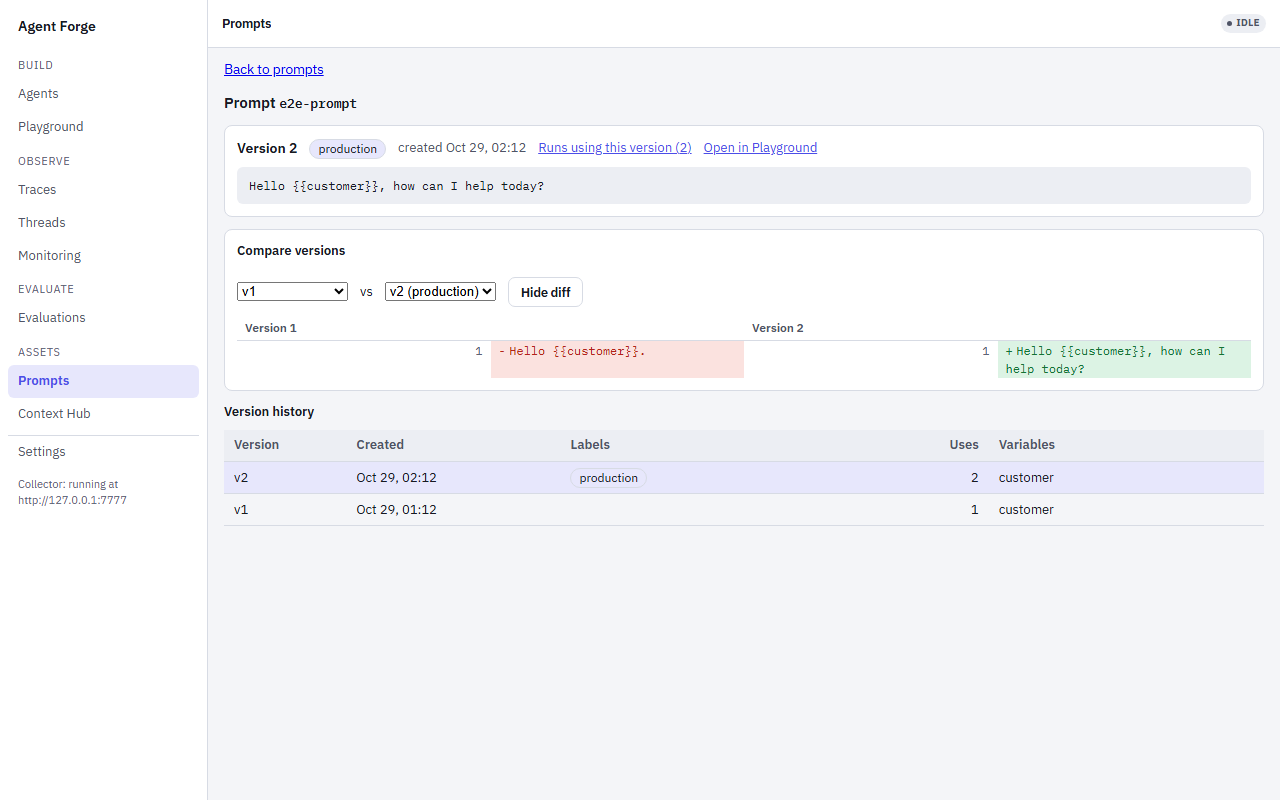
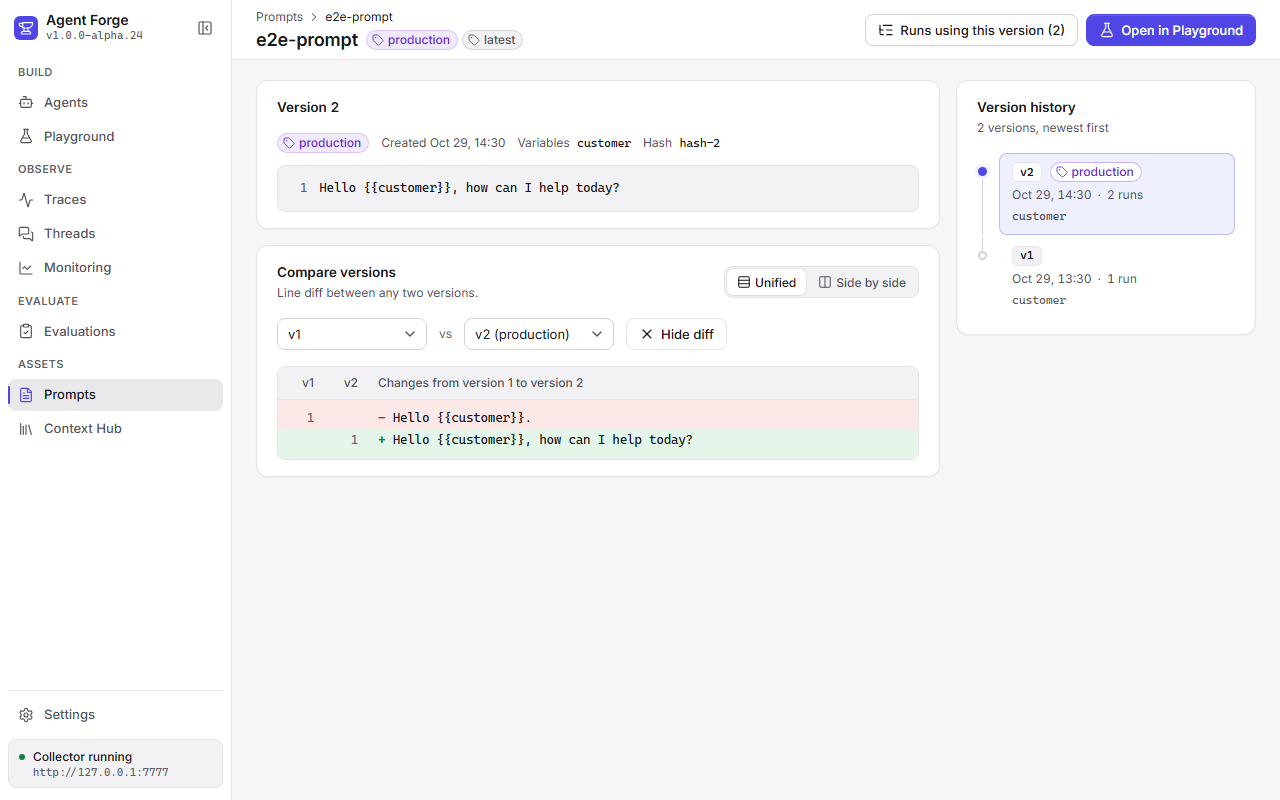
docs(studio): redesign screenshots (light + 4 dark), Agent Forge doc wording, CHANGELOG entry
docShots writes into docs/images without the x- review shots, and a dark run
there writes only studio-{agents,traces,trace,monitoring}-dark.png; with
LOUSHO_DOC_SHOTS_OUT set every shot keeps its name. docs/agent-forge.md
shows one dark example beside Traces and describes Refresh/Live, the
Tree|Waterfall switch, the trace header actions and the dark docs command.

diff --git a/apps/agent-forge/e2e/docShots.spec.ts b/apps/agent-forge/e2e/docShots.spec.ts
@@ -26,6 +26,9 @@ import { SEED_ERROR, SEED_NEWEST_FAILURE, seedObserve } from './fixtures/seedObs
  *                                       or relative to the process cwd)
  *   LOUSHO_DOC_SHOTS_SCHEME=light|dark  the colour scheme to shoot (default light)
  *
+ * Into docs/images (no OUT) the `x-` review shots are skipped, and a dark run
+ * writes only `studio-{agents,traces,trace,monitoring}-dark.png`.
+ *
  * The small fixtures below fill the screens the seed leaves thin: a fleet with
  * mixed health, a day of chart buckets for it, and a few threads.
  */
@@ -279,11 +282,32 @@ async function open(page: Page, hash: string) {
   await expect(page.locator('.app')).toBeVisible();
 }
 
+/** The docs set shot in dark too, written as `studio-<screen>-dark.png`. */
+const DARK_DOCS = new Set(['agents', 'traces', 'trace', 'monitoring']);
+
+/**
+ * Where `file` goes, or null to skip it. With LOUSHO_DOC_SHOTS_OUT set every
+ * shot is written as named (reviewers rely on the `x-` ones). Into docs/images
+ * the `x-` review shots never go, and a dark run writes only the DARK_DOCS set.
+ */
+function shotPath(file: string): string | null {
+  if (process.env.LOUSHO_DOC_SHOTS_OUT) return path.join(OUT, file);
+  if (/^(studio-)?x-/.test(file)) return null;
+  if (shotScheme() === 'light') return path.join(OUT, file);
+  const screen = /^studio-(.+)\.png$/.exec(file)?.[1];
+  return screen && DARK_DOCS.has(screen) ? path.join(OUT, `studio-${screen}-dark.png`) : null;
+}
+
+async function snap(page: Page, file: string, options: { fullPage?: boolean } = {}) {
+  const target = shotPath(file);
+  if (target) await page.screenshot({ ...options, path: target });
+}
+
 async function shoot(page: Page, screen: string) {
   // Let toasts, focus rings and chart transitions settle.
   await page.mouse.move(0, 0);
   await page.waitForTimeout(300);
-  await page.screenshot({ path: path.join(OUT, `studio-${screen}.png`) });
+  await snap(page, `studio-${screen}.png`);
 }
 
 /** Data rows only: a first load shows skeleton rows (`.skeleton-row`) until the rows arrive. */
@@ -373,7 +397,7 @@ for (const width of [860, 375]) {
     await monitoringReady(page);
     await page.mouse.move(0, 0);
     await page.waitForTimeout(300);
-    await page.screenshot({ path: path.join(OUT, `studio-x-monitoring-${width}.png`) });
+    await snap(page, `studio-x-monitoring-${width}.png`);
   });
 }
 
@@ -546,7 +570,7 @@ test('command palette: open over Traces', async ({ page }) => {
   await expect(input).toBeFocused();
   await input.fill('go');
   await page.waitForTimeout(150);
-  await page.screenshot({ path: path.join(OUT, 'studio-command-palette.png') });
+  await snap(page, 'studio-command-palette.png');
 });
 
 // Review-only shots of the shell (`x-` names: not in the docs set).
@@ -556,7 +580,7 @@ test('x: collapsed rail on Traces', async ({ page }) => {
   await page.getByRole('button', { name: 'Collapse navigation' }).click();
   await page.waitForTimeout(250);
   await page.mouse.move(0, 0);
-  await page.screenshot({ path: path.join(OUT, 'x-rail-collapsed.png') });
+  await snap(page, 'x-rail-collapsed.png');
 });
 
 test('x: 375 wide, Traces with the nav drawer closed and open', async ({ page }) => {
@@ -564,10 +588,10 @@ test('x: 375 wide, Traces with the nav drawer closed and open', async ({ page })
   await open(page, '/traces');
   await expect(rows(page).first()).toBeVisible();
   await page.waitForTimeout(300);
-  await page.screenshot({ path: path.join(OUT, 'x-narrow-traces.png') });
+  await snap(page, 'x-narrow-traces.png');
   await page.getByRole('button', { name: 'Navigation', exact: true }).click();
   await page.waitForTimeout(300);
-  await page.screenshot({ path: path.join(OUT, 'x-narrow-drawer-open.png') });
+  await snap(page, 'x-narrow-drawer-open.png');
 });
 
 /*
@@ -714,7 +738,7 @@ test('x-kit: filter bar with a facet and the custom range open', async ({ page }
   await main.locator('.facet-btn').first().click();
   await expect(main.locator('.facet-pop')).toBeVisible();
   await page.waitForTimeout(300);
-  await page.screenshot({ path: path.join(OUT, 'studio-x-kit-filters.png') });
+  await snap(page, 'studio-x-kit-filters.png');
 });
 
 // --- Overlay/message/chart kit states (x- shots, D3b) -------------------------
@@ -800,7 +824,7 @@ test('x-kit: chart tooltip, crosshair and legend with a series toggled off', asy
   await page.mouse.move(box.x + box.width * 0.62, box.y + box.height / 2);
   await expect(runs.locator('.tsc-crosshair')).toHaveCount(1); // a zero-width line never counts as visible
   await page.waitForTimeout(200);
-  await page.screenshot({ path: path.join(OUT, 'studio-x-kit-chart-hover.png') });
+  await snap(page, 'studio-x-kit-chart-hover.png');
 });
 
 test('x-kit: toasts (info and error)', async ({ page }) => {
@@ -822,7 +846,7 @@ test('x-kit: toasts (info and error)', async ({ page }) => {
   await expect(page.getByRole('alert').filter({ hasText: 'Could not disable' })).toBeVisible();
   await page.mouse.move(0, 0);
   await page.waitForTimeout(200);
-  await page.screenshot({ path: path.join(OUT, 'studio-x-kit-toasts.png') });
+  await snap(page, 'studio-x-kit-toasts.png');
 });
 
 test('x-kit: command palette sections, scrolled to the last group', async ({ page }) => {
@@ -834,7 +858,7 @@ test('x-kit: command palette sections, scrolled to the last group', async ({ pag
   // ArrowUp from the first option wraps to the last one (Toggle theme), scrolling the list to the end.
   await page.keyboard.press('ArrowUp');
   await page.waitForTimeout(250);
-  await page.screenshot({ path: path.join(OUT, 'studio-x-kit-palette-sections.png') });
+  await snap(page, 'studio-x-kit-palette-sections.png');
 });
 
 /*
@@ -1119,7 +1143,7 @@ test('x-traces: detail at 375 wide', async ({ page }) => {
   await open(page, `/traces/${SEED_NEWEST_FAILURE.trace_id}`);
   await expect(page.getByRole('main').getByRole('alert')).toContainText(SEED_ERROR);
   await shoot(page, 'x-trace-narrow');
-  await page.screenshot({ path: path.join(OUT, 'studio-x-trace-narrow-full.png'), fullPage: true });
+  await snap(page, 'studio-x-trace-narrow-full.png', { fullPage: true });
 });
 
 test("x-traces: the Agents drawer's Trace tab (narrow host)", async ({ page }) => {
@@ -1253,7 +1277,7 @@ test('x-threads: detail with long turns (collapsed, expanded, errored)', async (
   await shoot(page, 'x-thread-expanded');
   await turnsOf(page).nth(2).scrollIntoViewIfNeeded();
   await shoot(page, 'x-thread-error');
-  await page.screenshot({ path: path.join(OUT, 'studio-x-thread-long-full.png'), fullPage: true });
+  await snap(page, 'studio-x-thread-long-full.png', { fullPage: true });
 });
 
 test('x-threads: detail at 375 wide', async ({ page }) => {
@@ -1262,7 +1286,7 @@ test('x-threads: detail at 375 wide', async ({ page }) => {
   await open(page, `/threads/${LONG_THREAD}`);
   await expect(turnsOf(page)).toHaveCount(THREAD_TURNS.length);
   await shoot(page, 'x-thread-narrow');
-  await page.screenshot({ path: path.join(OUT, 'studio-x-thread-narrow-full.png'), fullPage: true });
+  await snap(page, 'studio-x-thread-narrow-full.png', { fullPage: true });
 });
 
 // --- Evaluators and annotation queues (x- shots, P7) -------------------------

diff --git a/docs/agent-forge.md b/docs/agent-forge.md
@@ -16,7 +16,7 @@ This doc covers: installation, the `lousho studio` quickstart, the
 authoring, time travel (replaying a run from a past step), the playground
 endpoint, and how settings/secrets/deploy wiring works.
 
-![The Agents screen: nav, canvas, inspector and the bottom drawer](./images/studio-agents.png)
+![The Agents screen: nav, agent rail, the fitted canvas with the Inspector folded, and the bottom drawer](./images/studio-agents.png)
 
 ## Installation
 
@@ -299,26 +299,34 @@ says so and keeps an empty editor, and runs still work. Runs go through the
 
 ![The Traces list](./images/studio-traces.png)
 
+![The Traces list in the dark theme](./images/studio-traces-dark.png)
+
+The same list in the dark theme (Settings > Appearance, or **Toggle theme** in the command palette).
+
 `#/traces` lists the daemon's runs, newest first: status, name, agent,
 input and output previews, error message, model, start, duration, tokens
 and cost (narrow windows hide the less important columns). Filter with the
 search box (name, input or output), the **Agent**, **Status**, **Model** and
 **Project** facets, and a time range (15m, 1h, 24h, 7d, 30d or Custom;
 default the last 24 h). Click **Duration**, **Tokens** or **Cost** to sort
-by it. 50 rows a page. A `prompt` filter (set by the Prompts screen's
+by it. 50 rows a page. The page header's **Refresh** re-fetches the list
+now, and **Live** (a toggle) refreshes it every 5 seconds until you switch
+it off or the daemon goes down. A `prompt` filter (set by the Prompts screen's
 "Runs using this version" link) shows as a removable chip.
 
 ### Trace
 
 `#/traces/<trace id>` is one run. The header has its name, status, agent
 (a link to the agent's traces), model, start, duration, tokens, cost and
-session (a link to its thread), plus **Copy link**, **Add to dataset** and
-**Add to queue**.
+session (a link to its thread), plus **Copy link**, **Add to dataset**,
+**Add to queue** and, when the run has a model call, **Open in Playground**.
+**All traces** in the page header goes back to the list.
 
 ![A failed run: the error banner on top of the inspector](./images/studio-trace.png)
 
 Below it is the trace viewer the builder's Trace tab and the queue review
-also use: the steps as a **Tree** or a **Waterfall**, and an inspector for
+also use: the steps as a **Tree** or a **Waterfall** (a two-way switch above
+the steps), and an inspector for
 the selected step (a failed step is selected by default, else the root).
 The selected step is `?obs=` in the URL. The inspector shows, in order:
 
@@ -852,12 +860,23 @@ LOUSHO_DOC_SHOTS=1 npx playwright test -c apps/agent-forge/playwright.config.ts 
 ```
 
 It writes `docs/images/studio-<screen>.png` (1280x800, light theme) from the
-same fake daemon. The images are not part of the npm package.
+same fake daemon. The images are not part of the npm package. The dark
+examples (`studio-{agents,traces,trace,monitoring}-dark.png`) come from the
+same command with the dark scheme:
+
+```bash
+LOUSHO_DOC_SHOTS=1 LOUSHO_DOC_SHOTS_SCHEME=dark npx playwright test -c apps/agent-forge/playwright.config.ts docShots
+```
+
+Into `docs/images` the spec skips its `x-` review shots, and a dark run
+writes only those four.
 
 Two optional variables help review a restyle before and after:
 `LOUSHO_DOC_SHOTS_OUT=<dir>` writes the PNGs to another directory (absolute,
 or relative to where you run the command), and `LOUSHO_DOC_SHOTS_SCHEME=dark`
 shoots the dark theme (`light` is the default; any other value fails the run).
+With an output directory every shot is written under its own name, `x-`
+review shots included.
 
 ```bash
 LOUSHO_DOC_SHOTS=1 LOUSHO_DOC_SHOTS_OUT=/tmp/shots-dark LOUSHO_DOC_SHOTS_SCHEME=dark npx playwright test -c apps/agent-forge/playwright.config.ts docShots

diff --git a/CHANGELOG.md b/CHANGELOG.md
@@ -55,6 +55,7 @@ opt-out.
 - **Behavior change:** content captured for traces is scrubbed for secrets by default. `redactContent` is `boolean | ((text) => string)`: unset or `true` runs a built-in scrubber over message text, system instructions, tool-call arguments and tool results that replaces API-key shapes (`sk-…`, `lsv2_…`, GitHub tokens, AWS access key ids, the token after `Bearer`) with `[redacted]`; a function replaces the scrubber (text it throws on is recorded as `[redacted]`); `false` records content as is. It catches common key formats, not every secret, so set `captureContent: false` if content must never reach the db. See [Secrets in captured content](docs/observability.md#secrets-in-captured-content).
 - **Behavior change:** sessions end. The daemon marks a session `ended` once none of its runs is open and nothing in it has started or finished for `lousho observe start --session-idle-minutes N` (default 30, `0` turns it off); `ended_at` is the last activity, and a new run makes it `active` again. Sessions in an existing db close on the first sweep that finds them idle, and ended sessions then age out with retention. See [Idle sessions](docs/observability.md#idle-sessions).
 - **Behavior change:** the daemon keeps 30 days of runs by default. On its first sweep after start, and daily after that, it deletes traces whose observations all finished more than `--retention-days` ago, with their scores; a trace with a run still open, and a session still `active`, is kept. Start it with `--retention-days 0` to keep an existing db's history. See [Retention](docs/observability.md#retention).
+- Studio redesign: a new look in light and dark (Settings > Appearance picks Light, Dark or System, plus Compact or Comfortable table density), a left nav that collapses to an icon rail, and a Settings screen in sections (Appearance, Provider keys with Set / From environment / Not set, Collector, Keyboard shortcuts). Traces gains **Refresh** and a **Live** toggle that refreshes every 5 seconds, the trace viewer switches between **Tree** and **Waterfall**, Evaluations moves between Scores, Datasets, Evaluators and Annotation queues with tabs, Ctrl/Cmd+Enter runs the Playground, and the Agents canvas opens with the whole graph fitted and the Inspector folded until you select a node. See [Agent Forge](docs/agent-forge.md).
 
 ### Fixed
 
